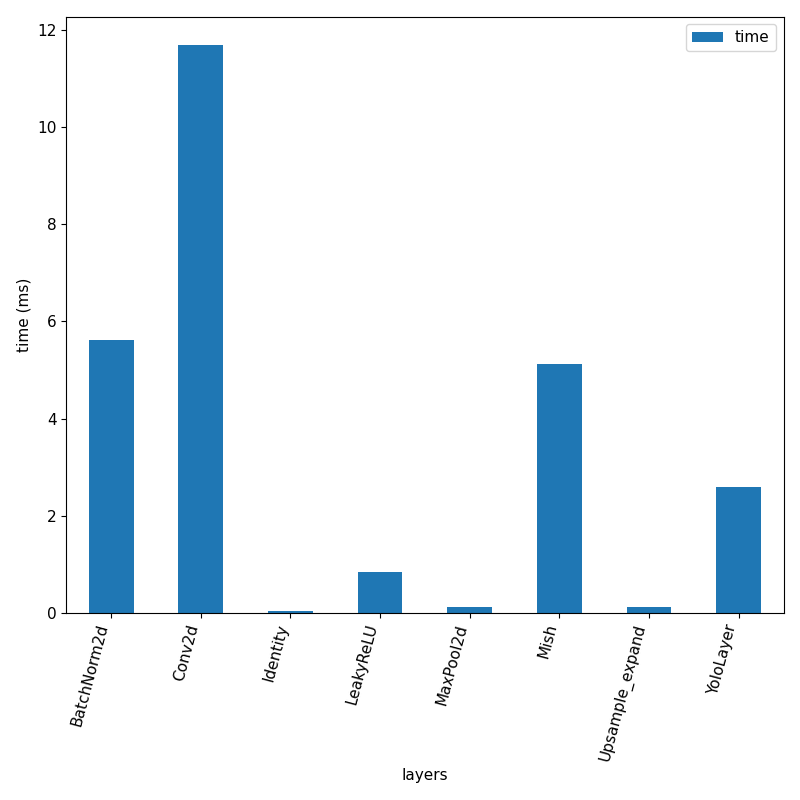
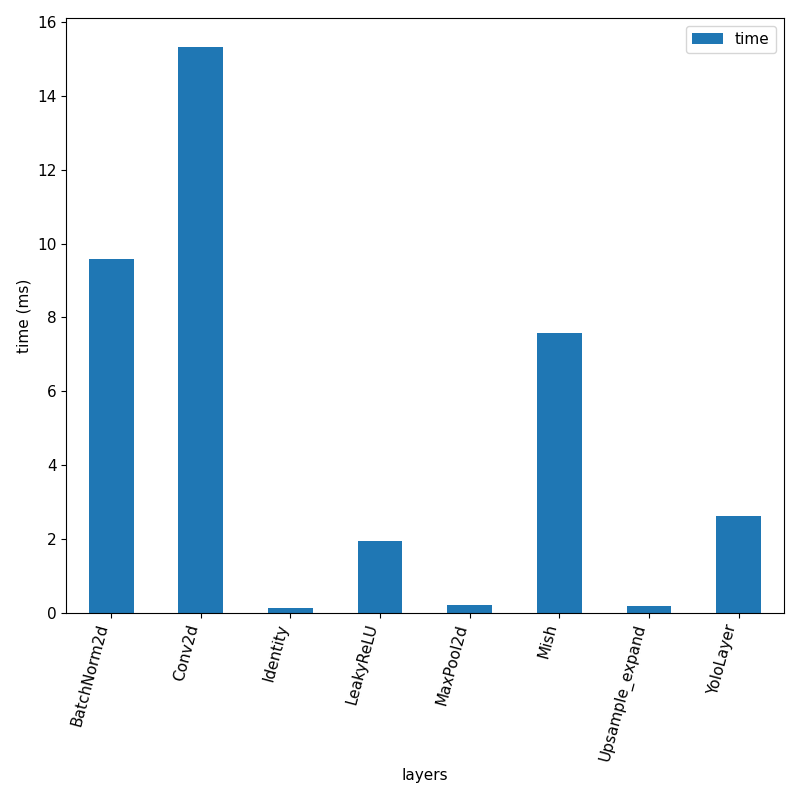
added yolos

diff --git a/main.py b/main.py
@@ -1,5 +1,5 @@
 import torch
-from detect import YoloV4, YoloX, FasterRCNN, YoloR
+from detect import YoloV4, YoloX, FasterRCNN, YoloR, YoloS
 from profiler import Profiler
 import matplotlib.pyplot as plt
 import pandas as pd
@@ -95,8 +95,8 @@ def generate_bar_plot(models, models_names, device):
         plot_bar(df, model_name)
 
 def all_time_plots():
-    models = [YoloV4(), YoloX(), FasterRCNN(), YoloR()]
-    models_names = ['yolov4', 'yolox', 'faster_rcnn', 'yolor']
+    models = [YoloV4(), YoloX(), FasterRCNN(), YoloR(), YoloS()] #not efficient, but it's just a test, PLEASE FIX
+    models_names = ['yolov4', 'yolox', 'faster_rcnn', 'yolor', 'yolos']
     selected_layers = (torch.nn.Conv2d, torch.nn.Linear)
     device = "cuda:0" if torch.cuda.is_available() else "cpu"
 
@@ -108,8 +108,39 @@ def all_time_plots():
     print("Generating bar plots...")
     generate_bar_plot(models, models_names, device)
 
-def main():
-    all_time_plots()
+def test():
+    model = YoloS()
+    name = 'yolos'
+    device = "cuda:0" if torch.cuda.is_available() else "cpu"
+
+    df = profile(model, name, device)
+    plot_line(df, name)
+
+    # model = FasterRCNN()
+    # model_name = 'faster_rcnn'
+    # device = "cuda:0" if torch.cuda.is_available() else "cpu"
+    # model = model.eval().to(device)  # load model
+
+    # image = torch.rand(1, 3, 640, 640).to(device)  # load image
+
+    # hook = MemoryHook()
+
+    # profiler = Profiler(model, model_name, hook)
+    # records = profiler.run(image)
+    
+    # #write all record to file
+    # with open('memory.txt', 'w') as f:
+    #     for record in records:
+    #         f.write(str(record) + '\n')
+
+    # df = record.to_dataframe()
+    # print(df.head())
+
+def main(start_test: bool = False):
+    if start_test:
+        test()
+    else:
+        all_time_plots()
 
 if __name__ == '__main__':
-    main()
+    main(start_test = False)

diff --git a/detect/yolos.py b/detect/yolos.py
@@ -1,0 +1,12 @@
+from transformers import YolosConfig, YolosModel
+import torch
+
+__all__ = ['YoloS']
+
+def YoloS():
+    configuration = YolosConfig()
+    model = YolosModel(configuration)
+
+    return model
+
+

diff --git a/detect/__init__.py b/detect/__init__.py
@@ -2,3 +2,4 @@ from .yolov4 import YoloV4
 from .yolox import YoloX
 from .faster_rcnn import FasterRCNN
 from .yolor import YoloR
+from .yolos import YoloS
